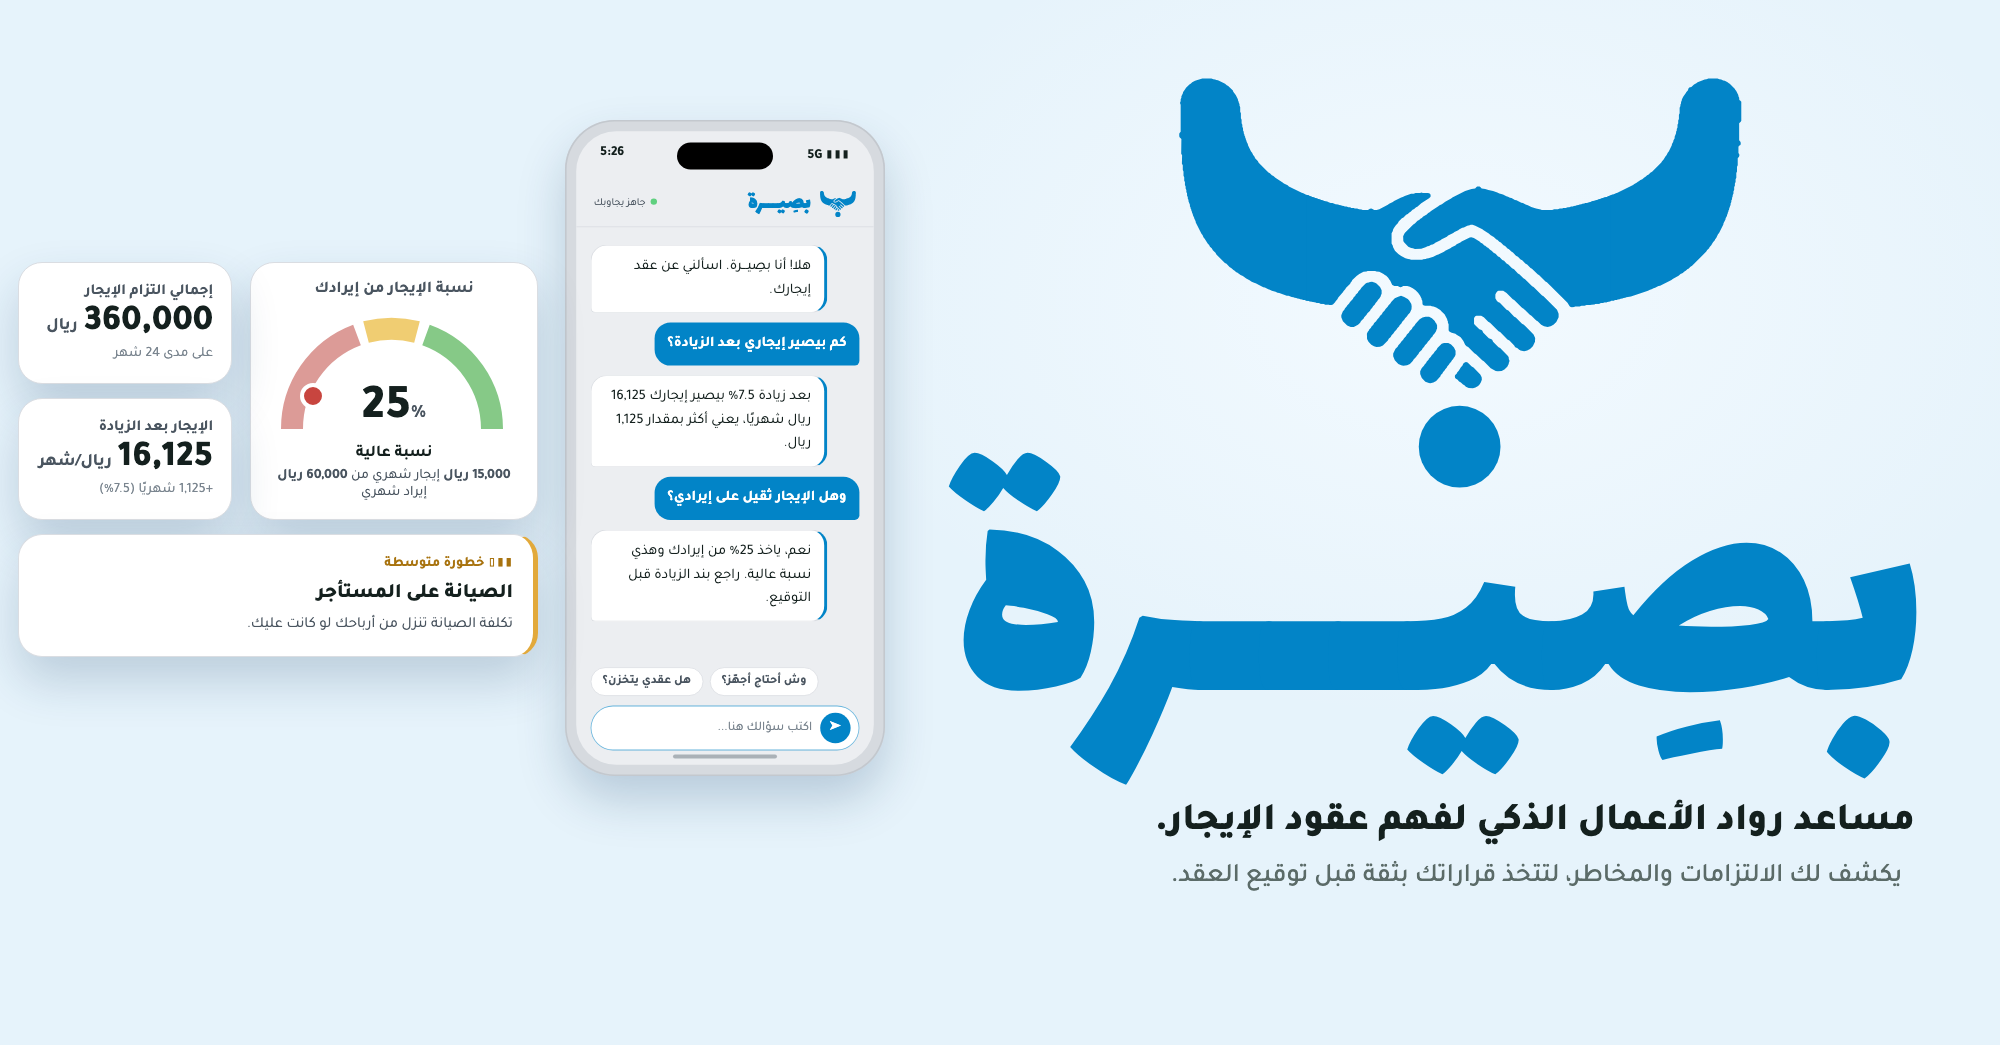
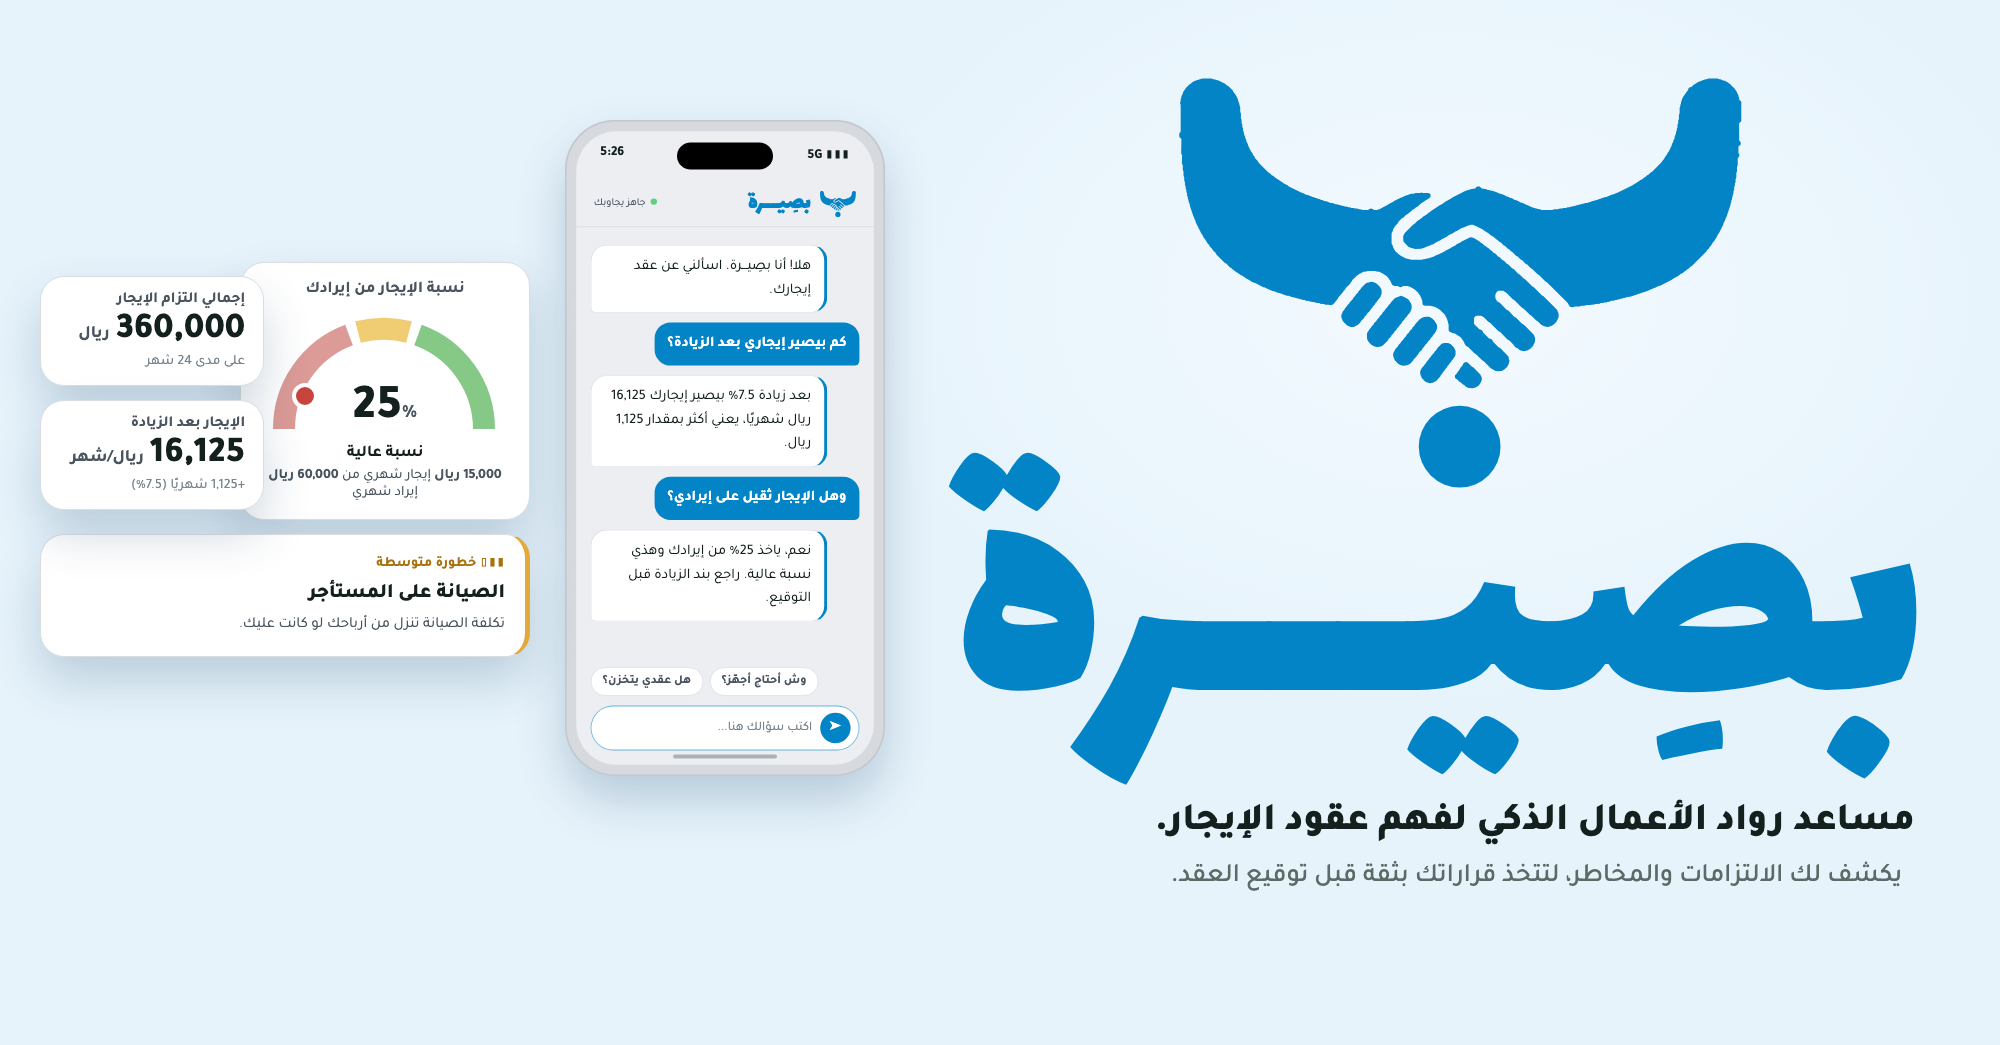
البوستر: بطاقتا الالتزام والإيجار بعد الزيادة فوق حافة بطاقة النسبة

Changed region(s): [[0.0, 0.245, 0.279, 0.6431], [0.124, 0.5206, 0.279, 0.6431]]

diff --git a/docs/poster/basira-poster.html b/docs/poster/basira-poster.html
@@ -59,13 +59,13 @@ html, body { width: 2000px; height: 1045px; background: var(--mint); font-family
 .hsub { font-size: 13px; color: var(--ink2); }
 .home { position:absolute; bottom: 8px; left: 50%; transform: translateX(-50%); width: 130px; height: 5px; border-radius: 3px; background: #9aa1a9; opacity:.8; }
 
-.cl { position:absolute; width: 520px; height: 440px; }
+.cl { position:absolute; width: 490px; height: 400px; }
 .cl .fcard { position:absolute; }
-.cl .g { left: 232px; top: 0; width: 288px; height: 258px; z-index: 3; }
-.cl .s1 { left: 0; top: 0; width: 214px; height: 122px; display:flex; flex-direction:column; justify-content:center; z-index: 3; padding: 0 18px; }
-.cl .s2 { left: 0; top: 136px; width: 214px; height: 122px; display:flex; flex-direction:column; justify-content:center; z-index: 3; padding: 0 18px; }
+.cl .g { left: 200px; top: 0; width: 290px; height: 258px; z-index: 3; }
+.cl .s1 { left: 0; top: 14px; width: 224px; height: 110px; display:flex; flex-direction:column; justify-content:center; z-index: 5; padding: 0 18px; }
+.cl .s2 { left: 0; top: 138px; width: 224px; height: 110px; display:flex; flex-direction:column; justify-content:center; z-index: 5; padding: 0 18px; }
 .cl .s1 .big, .cl .s2 .big { font-size: 36px; }
-.cl .r { left: 0; top: 272px; bottom: auto; width: 520px; z-index: 3; }
+.cl .r { left: 0; top: 272px; bottom: auto; width: 490px; z-index: 3; }
 .cl .r h5 { font-size: 20px; }
 .pw { position:absolute; transform-origin: 0 0; }
 .pw .phone { box-shadow: 0 30px 60px rgba(20,60,100,.22), 0 0 0 2px #c3c8ce inset; }
@@ -86,7 +86,7 @@ html, body { width: 2000px; height: 1045px; background: var(--mint); font-family
   <div class="sub">يكشف لك الالتزامات والمخاطر، لتتخذ قراراتك بثقة قبل توقيع العقد.</div>
 
   <!-- جوال 1: التقرير -->
-  <div class="cl" style="left: 18px; top: 262px;">
+  <div class="cl" style="left: 40px; top: 262px;">
   <div class="fcard g"><h4>نسبة الإيجار من إيرادك</h4>
     <svg class="gauge" viewBox="0 0 250 135"><path d="M25 125 A100 100 0 0 1 90 31" fill="none" stroke="#dc9b97" stroke-width="22"/><path d="M99 28 A100 100 0 0 1 150 28" fill="none" stroke="#f0cd72" stroke-width="22"/><path d="M159 31 A100 100 0 0 1 225 125" fill="none" stroke="#86c987" stroke-width="22"/><circle cx="46" cy="92" r="11" fill="#c8453f" stroke="#ffffff" stroke-width="4"/></svg>
     <div class="pct">25<small>%</small></div><div class="sev">نسبة عالية</div>
